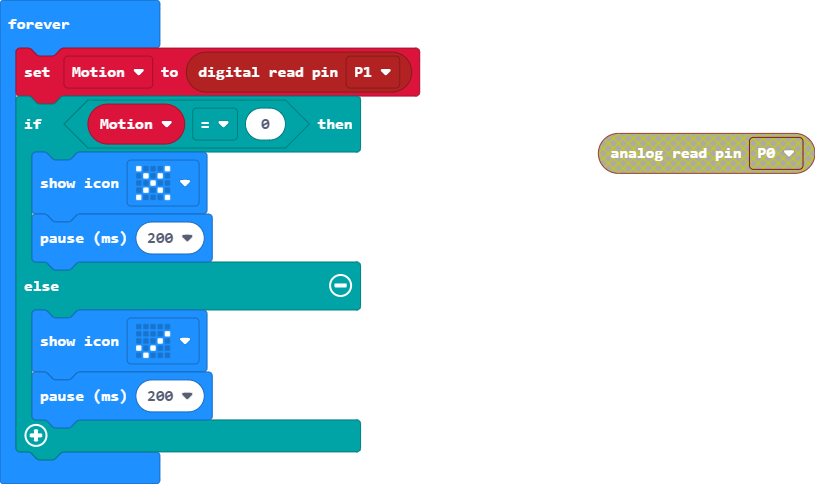
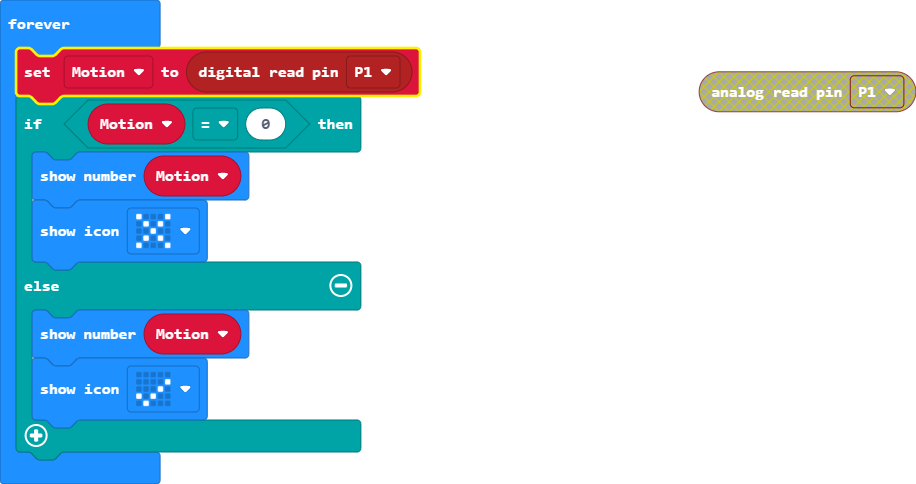
Update main.blocks, main.ts

diff --git a/main.ts b/main.ts
@@ -2,10 +2,10 @@ let Motion = 0
 basic.forever(function () {
     Motion = pins.digitalReadPin(DigitalPin.P1)
     if (Motion == 0) {
+        basic.showNumber(Motion)
         basic.showIcon(IconNames.No)
-        basic.pause(200)
     } else {
+        basic.showNumber(Motion)
         basic.showIcon(IconNames.Yes)
-        basic.pause(200)
     }
 })
